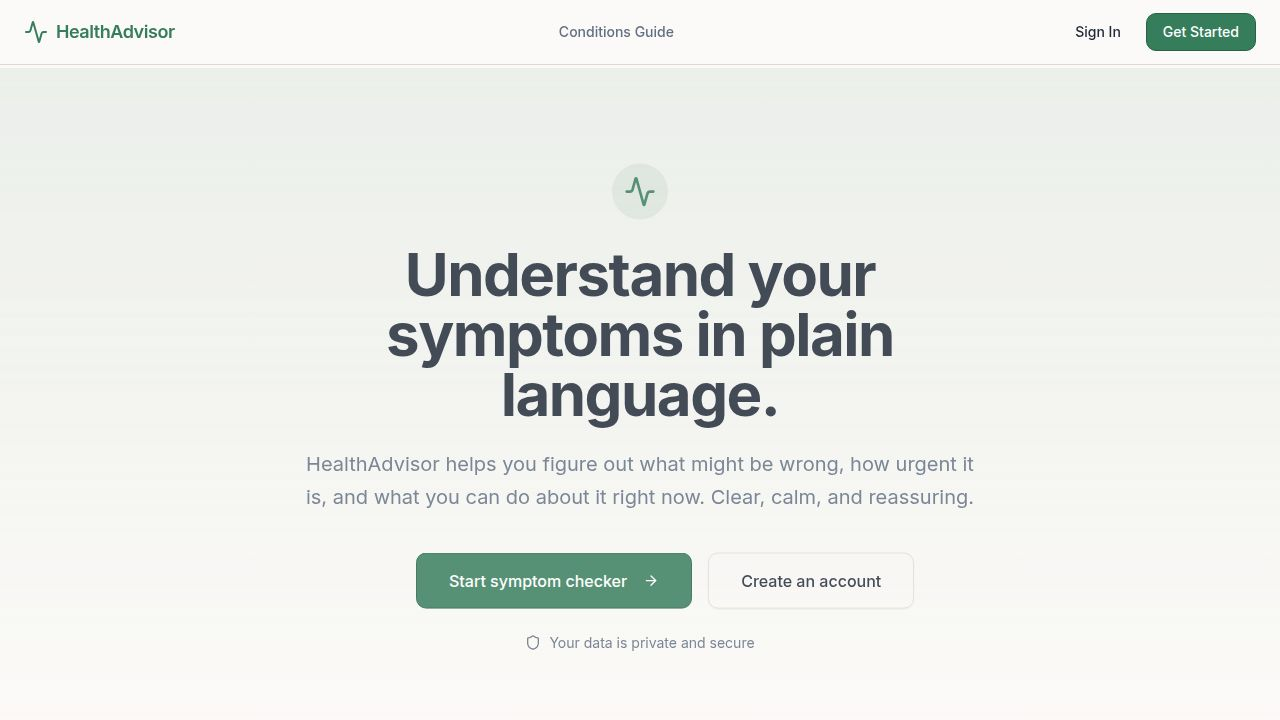
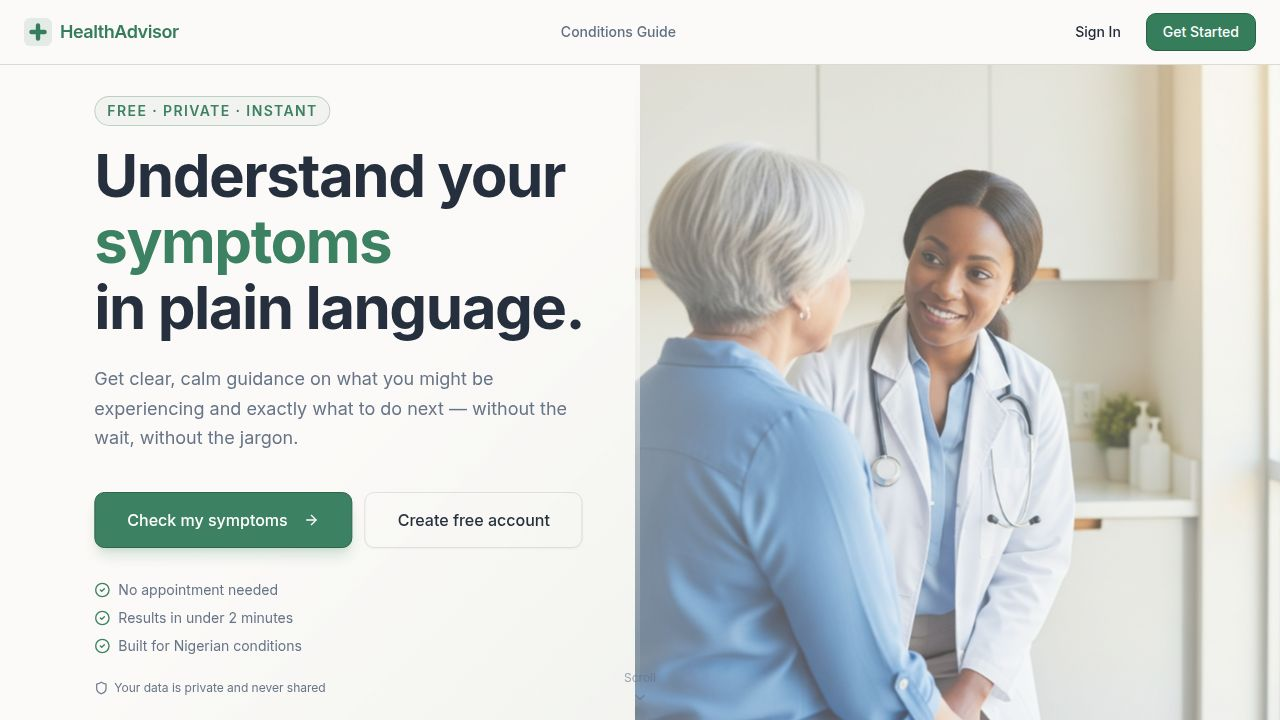
Improve login reliability by ensuring session cookies are correctly sent
Updates API server, Vite config, and API client to correctly handle session cookies for cross-origin requests and development proxying.

Replit-Commit-Author: Agent
Replit-Commit-Session-Id: 92eb9a00-7e9d-4e54-a5dd-71fb8b800a7c
Replit-Commit-Checkpoint-Type: full_checkpoint
Replit-Commit-Event-Id: bd11d92c-95df-4426-9255-93c291cfcda6
Replit-Commit-Screenshot-Url: https://storage.googleapis.com/screenshot-production-us-central1/dcfadfcb-edfa-478c-a86a-dcbd0fc146a3/92eb9a00-7e9d-4e54-a5dd-71fb8b800a7c/K7Ws2xc
Replit-Helium-Checkpoint-Created: true

diff --git a/artifacts/health-advisor/vite.config.ts b/artifacts/health-advisor/vite.config.ts
@@ -62,6 +62,13 @@ export default defineConfig({
     port,
     host: "0.0.0.0",
     allowedHosts: true,
+    proxy: {
+      "/api": {
+        target: "http://localhost:8080",
+        changeOrigin: true,
+        cookieDomainRewrite: "",
+      },
+    },
     fs: {
       strict: true,
       deny: ["**/.*"],

diff --git a/lib/api-client-react/src/custom-fetch.ts b/lib/api-client-react/src/custom-fetch.ts
@@ -360,7 +360,7 @@ export async function customFetch<T = unknown>(
 
   const requestInfo = { method, url: resolveUrl(input) };
 
-  const response = await fetch(input, { ...init, method, headers });
+  const response = await fetch(input, { ...init, method, headers, credentials: init.credentials ?? "include" });
 
   if (!response.ok) {
     const errorData = await parseErrorBody(response, method);

diff --git a/artifacts/api-server/src/app.ts b/artifacts/api-server/src/app.ts
@@ -44,6 +44,7 @@ app.use(
     cookie: {
       secure: process.env.NODE_ENV === "production",
       httpOnly: true,
+      sameSite: process.env.NODE_ENV === "production" ? "none" : "lax",
       maxAge: 7 * 24 * 60 * 60 * 1000, // 7 days
     },
   }),